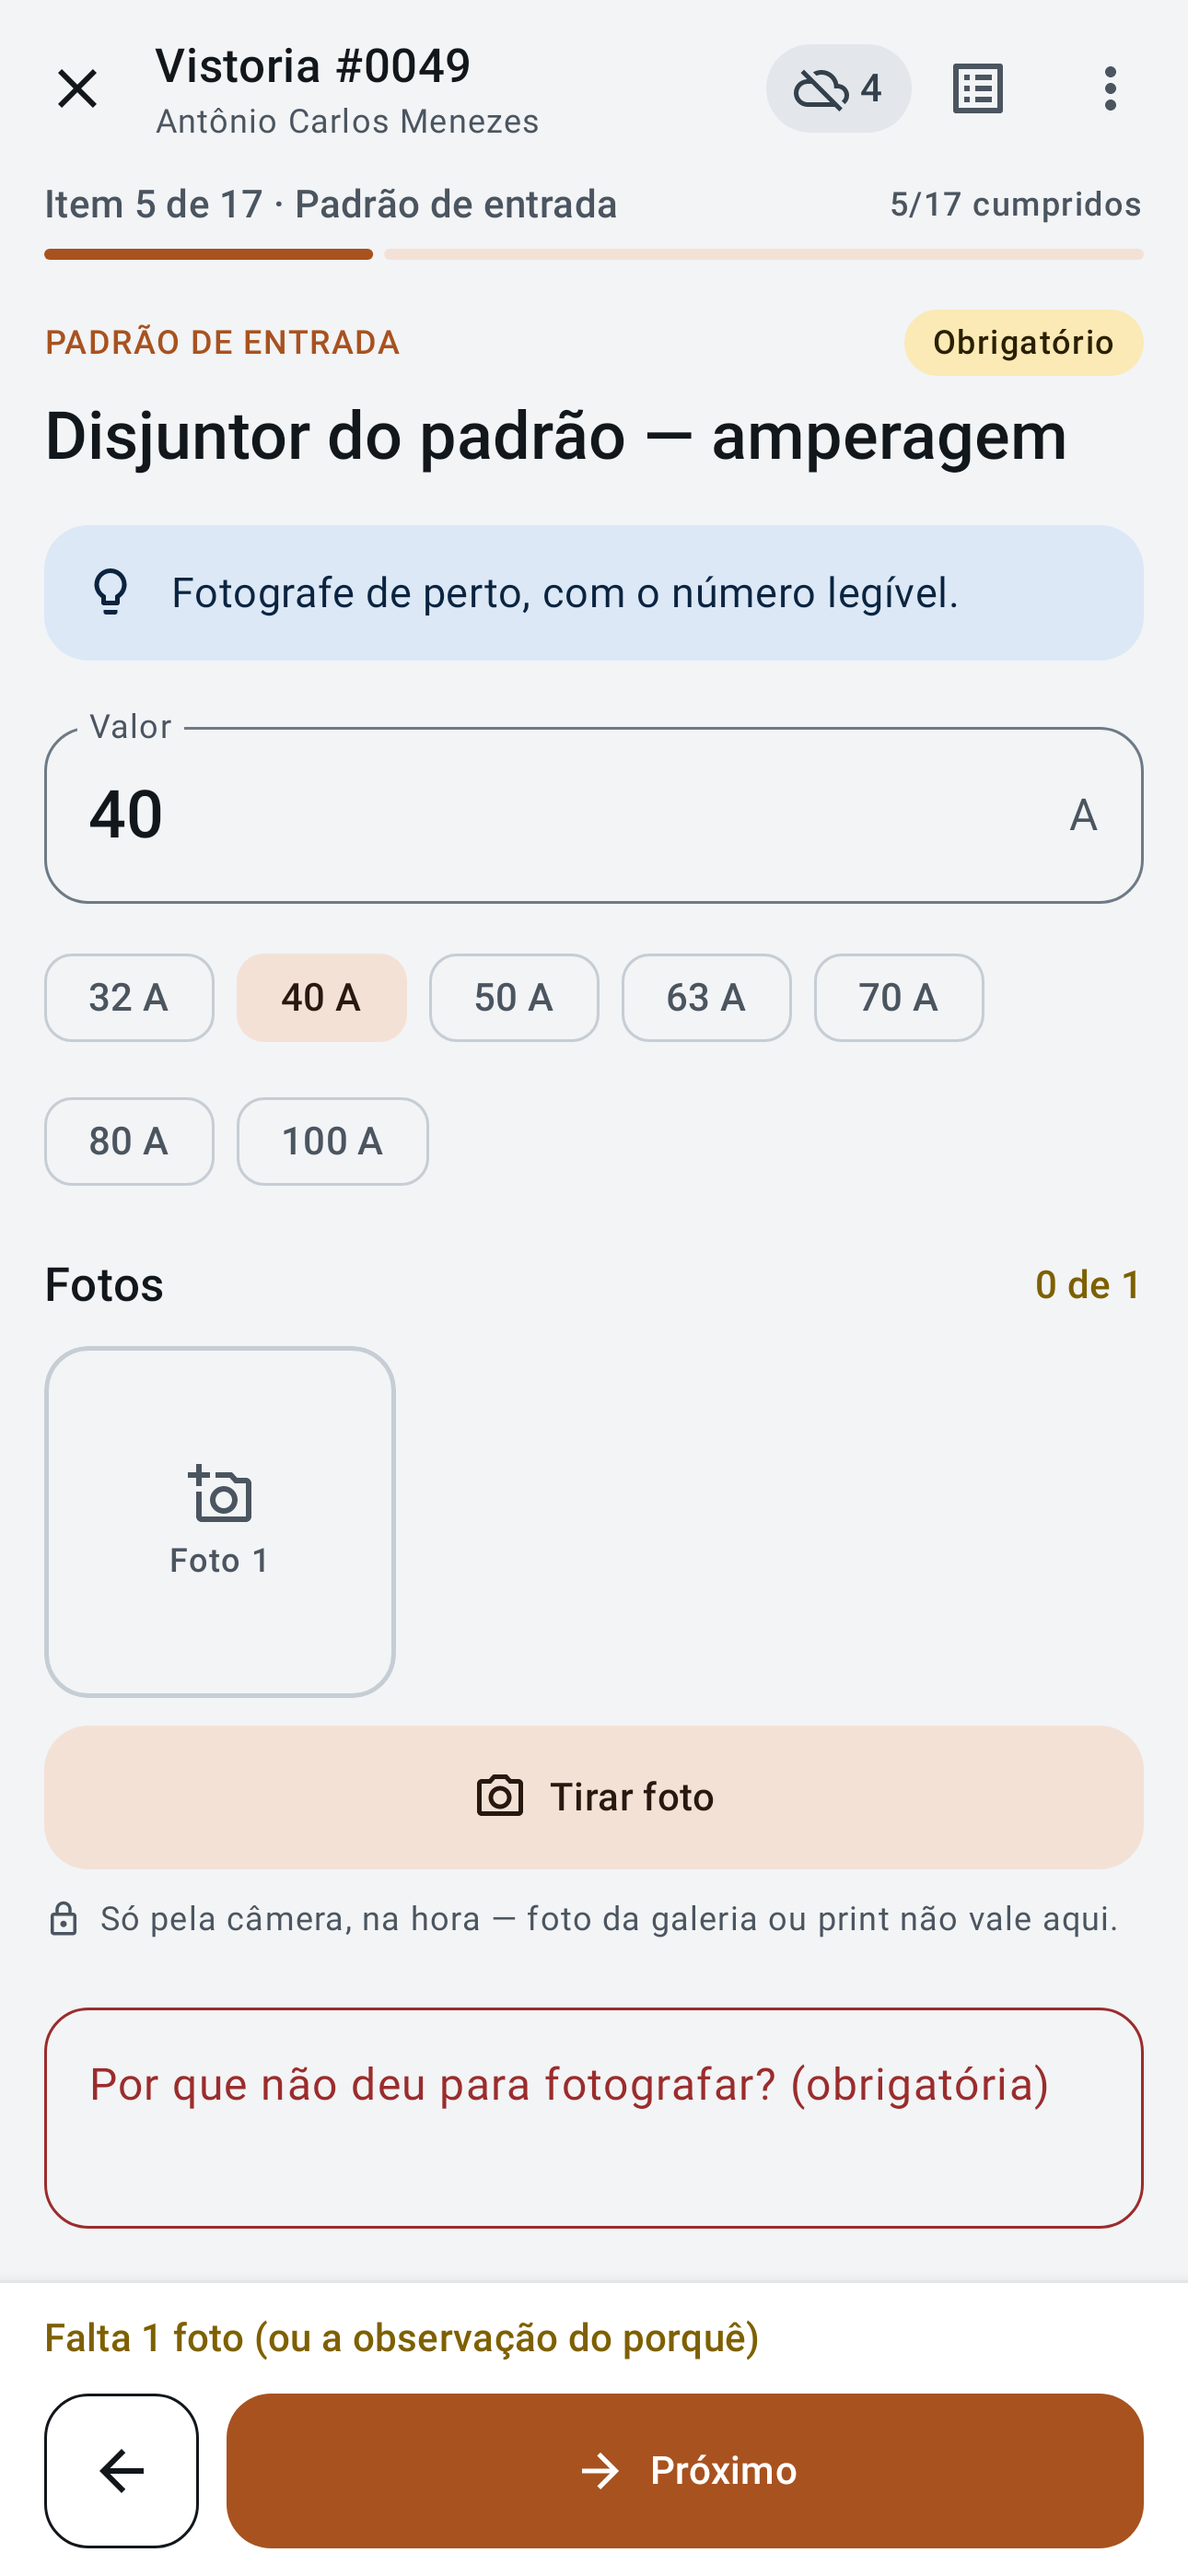
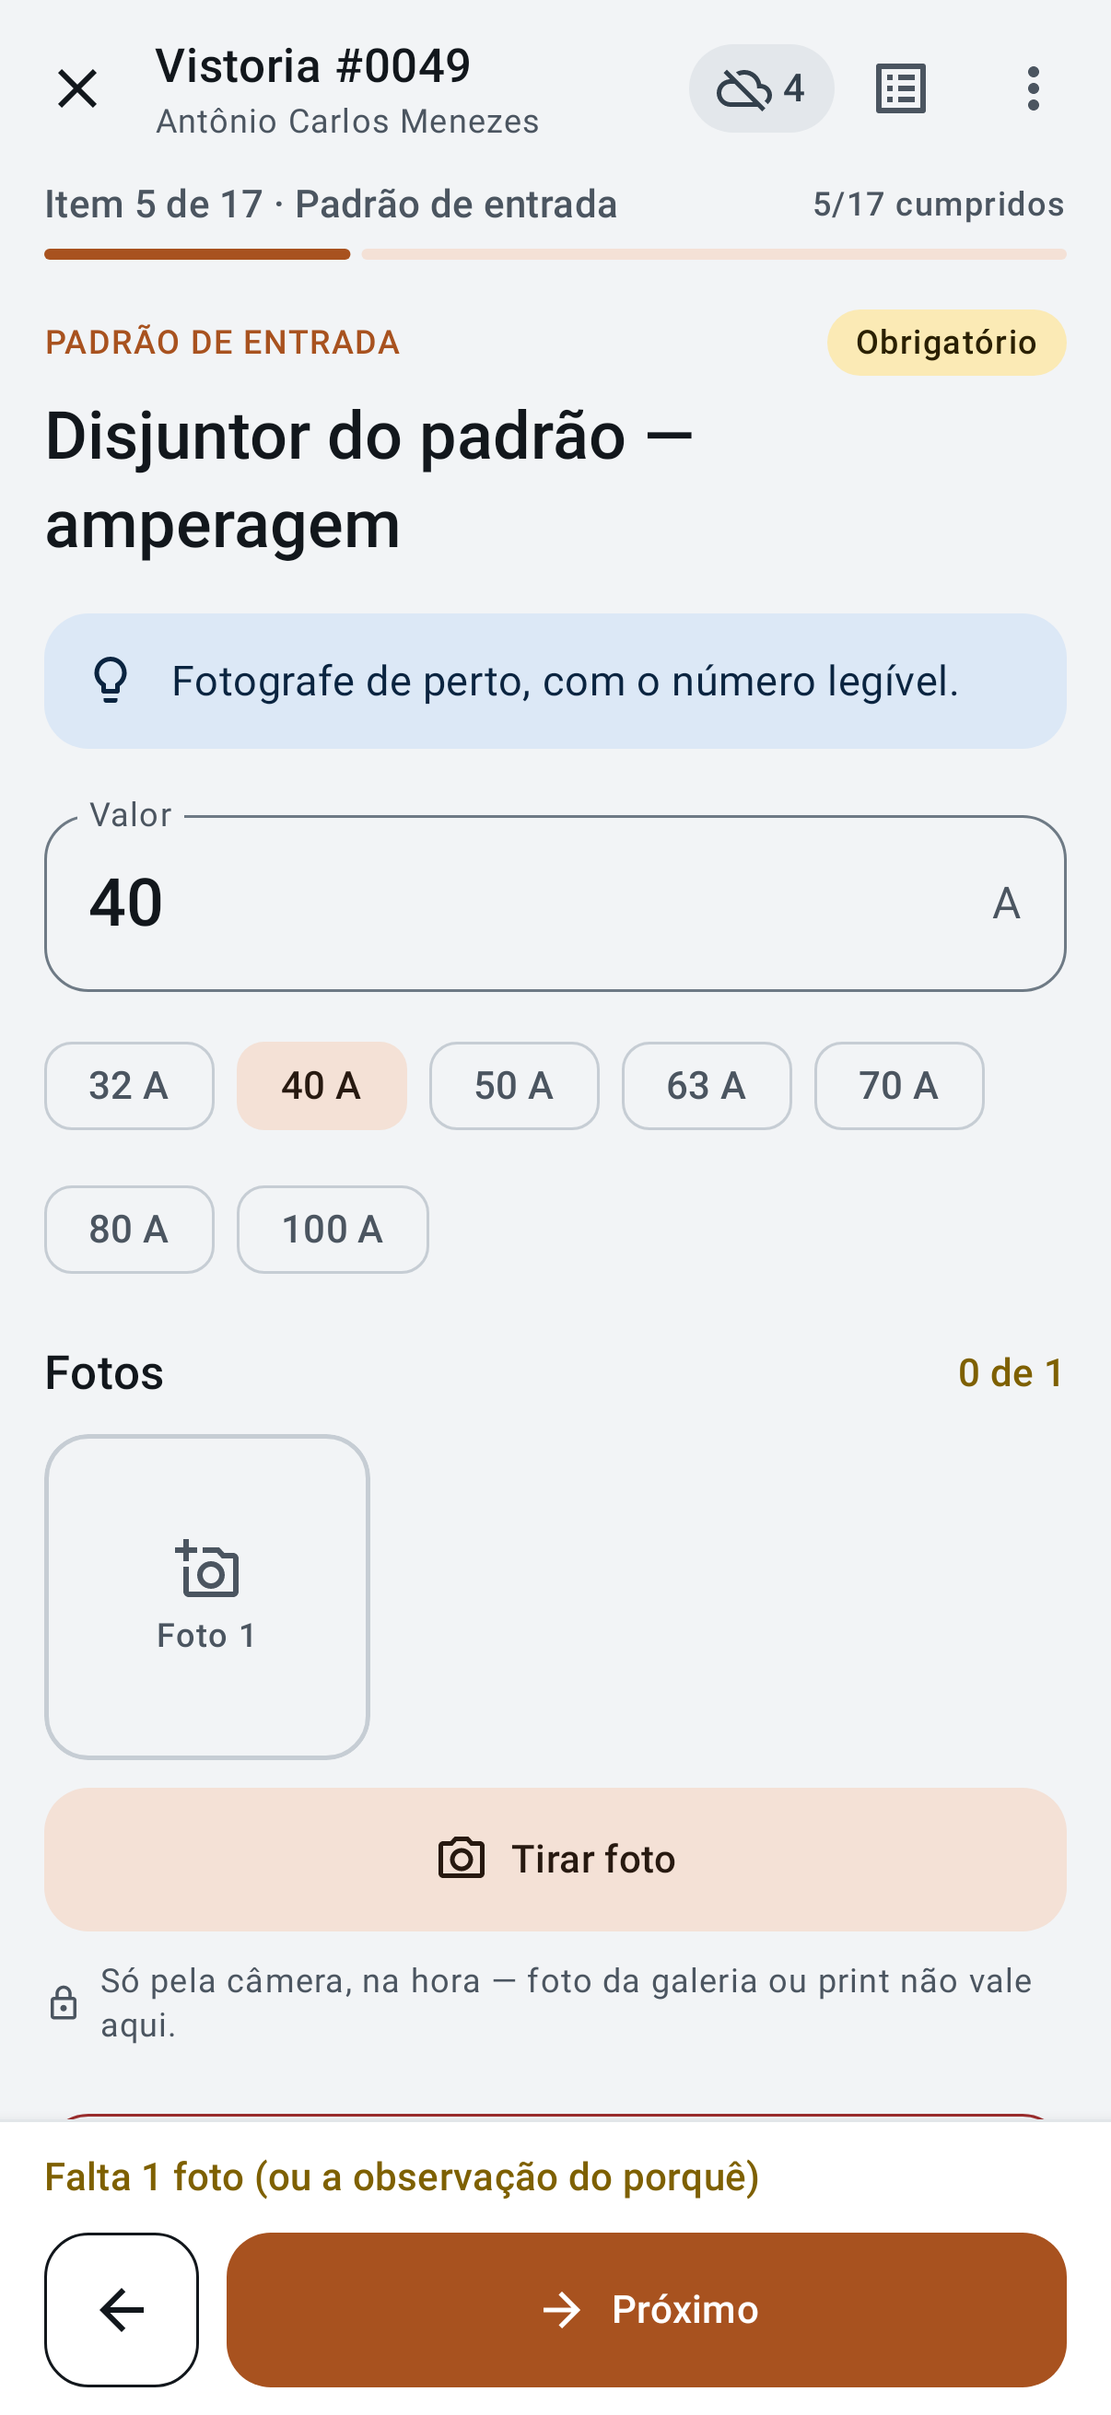
eeee

diff --git a/app/src/test/java/br/com/selebi/app/TelasLojaIphoneTest.kt b/app/src/test/java/br/com/selebi/app/TelasLojaIphoneTest.kt
@@ -42,7 +42,8 @@ import org.robolectric.annotation.GraphicsMode
 
 /**
  * As capturas da App Store: as mesmas telas da Play, no tamanho que a Apple
- * exige para o iPhone de 6,9" — 430 × 932 pontos a 3x = 1290 × 2796 pixels.
+ * pede no "iPhone com Dynamic Island (tela média)", de 6,3" — 402 × 874 pontos
+ * a 3x = 1206 × 2622 pixels. (Em nov/2026 o 6,9", 1290 × 2796, deixou de ser aceito.)
  *
  *   gradlew :app:testDebugUnitTest --tests "*TelasLojaIphoneTest*"
  *
@@ -50,7 +51,7 @@ import org.robolectric.annotation.GraphicsMode
  */
 @RunWith(RobolectricTestRunner::class)
 @GraphicsMode(GraphicsMode.Mode.NATIVE)
-@Config(sdk = [34], qualifiers = "w430dp-h1000dp-xxhdpi")
+@Config(sdk = [34], qualifiers = "w402dp-h950dp-xxhdpi")
 class TelasLojaIphoneTest {
 
     @get:Rule
@@ -59,7 +60,7 @@ class TelasLojaIphoneTest {
     private fun capturar(nome: String, conteudo: @Composable () -> Unit) {
         regra.setContent {
             SelebiTema(escuro = false) {
-                Box(Modifier.size(430.dp, 932.dp).testTag("captura")) { conteudo() }
+                Box(Modifier.size(402.dp, 874.dp).testTag("captura")) { conteudo() }
             }
         }
         regra.onNodeWithTag("captura").captureRoboImage("build/telas-iphone/$nome.png")
